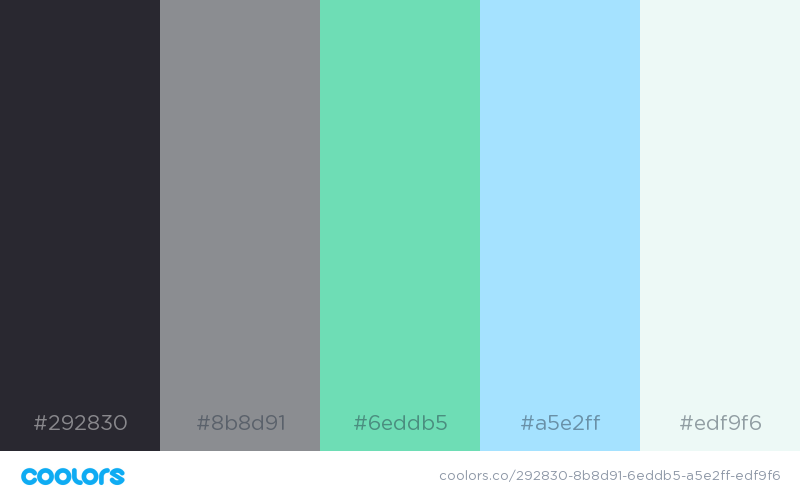
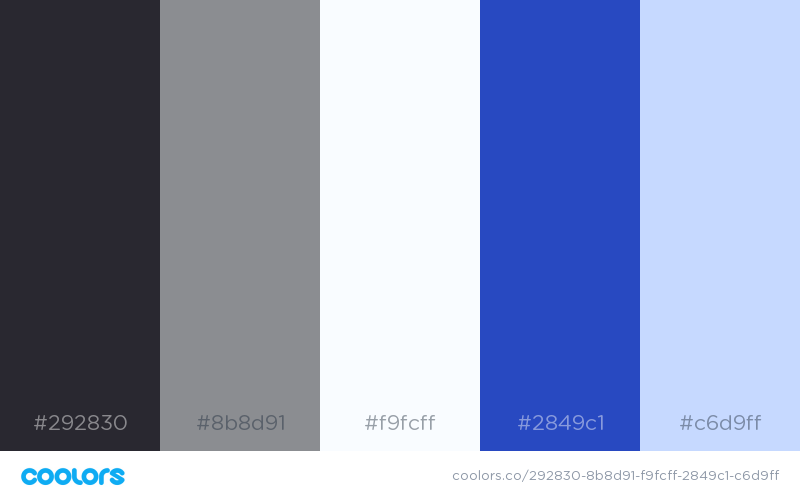
colours palettee changed

diff --git a/css/main.css b/css/main.css
@@ -13,7 +13,7 @@ body {
   padding-bottom: 2rem;
   border-top-width: 0.15rem;
   border-top-style: solid;
-  border-top-color: black;
+  border-top-color: #8B8D91;
 }
 
 nav a:hover, nav a:focus {
@@ -47,7 +47,7 @@ code {
 /* Styling for confirmation button */
 .button_confirmation {
   border-radius: 0.4em;
-  border-color: #A5E2FF;
+  border-color: #C6D9FF;
   color: #292830;
   background-color: white;
   transition-property: color;
@@ -55,7 +55,7 @@ code {
 }
 
 .button_confirmation:active, .button_confirmation:hover, .button_confirmation:focus {
-  color: #A5E2FF;
+  color: #C6D9FF;
 }
 
 /* Styling for form */
@@ -74,7 +74,7 @@ code {
 
 .image_link:hover {
   opacity: 0.7;
-  background-color: #6EDDB5;
+  background-color: #2849C1;
 }
 
 /* Styling for the navigation button */
@@ -89,7 +89,7 @@ code {
 }
 
 .button-nav:hover, .button-nav:focus {
-  background-color: #6EDDB5;
+  background-color: #2849C1;
 }
 
 /* 
@@ -134,7 +134,6 @@ li {
   padding: 0.5em 0em;
   max-width: 60em;
   font-weight: normal;
-  color: rgb(50,50,50);
 }
 
 /* 
@@ -145,12 +144,20 @@ nav {
   background-color: #ffffff;
   display: flex;
   justify-content: space-around;
-  border-bottom: 0.1em dotted #6EDDB5;
+  border-bottom: 0.1em dotted #C6D9FF;
   margin-bottom: 1em;
 }
 
+nav a {
+  color: #292830;
+  text-decoration: none;
+  background-color: #ffffff;
+  transition-property: background-color;
+  transition-duration: 0.5s;
+}
+
 nav a:hover, nav a:focus {
-  text-decoration: underline;
+  color: #8B8D91;
 }
 
 /* 
@@ -181,11 +188,11 @@ nav a:hover, nav a:focus {
 }
 
 #aqua{
-  background-color: #6EDDB5;
+  background-color: #2849C1;
 }
 
 #sky{
-  background-color: #A5E2FF;
+  background-color: #C6D9FF;
 }
 
 #smoke{

diff --git a/index.html b/index.html
@@ -409,13 +409,13 @@
           <div class="colour" id="lightgray">
             <p>#8B8D91</p>
           </div>
-          <div class="colour" id="aqua">
+          <div class="colour" id="smoke">
             <p>#6EDDB5</p>
           </div>
-          <div class="colour" id="sky">
+          <div class="colour" id="darkblue">
             <p>#A5E2FF</p>
           </div>
-          <div class="colour" id="smoke">
+          <div class="colour" id="periwinkle">
             <p>#EDF9F6</p>
           </div>
         </div>
